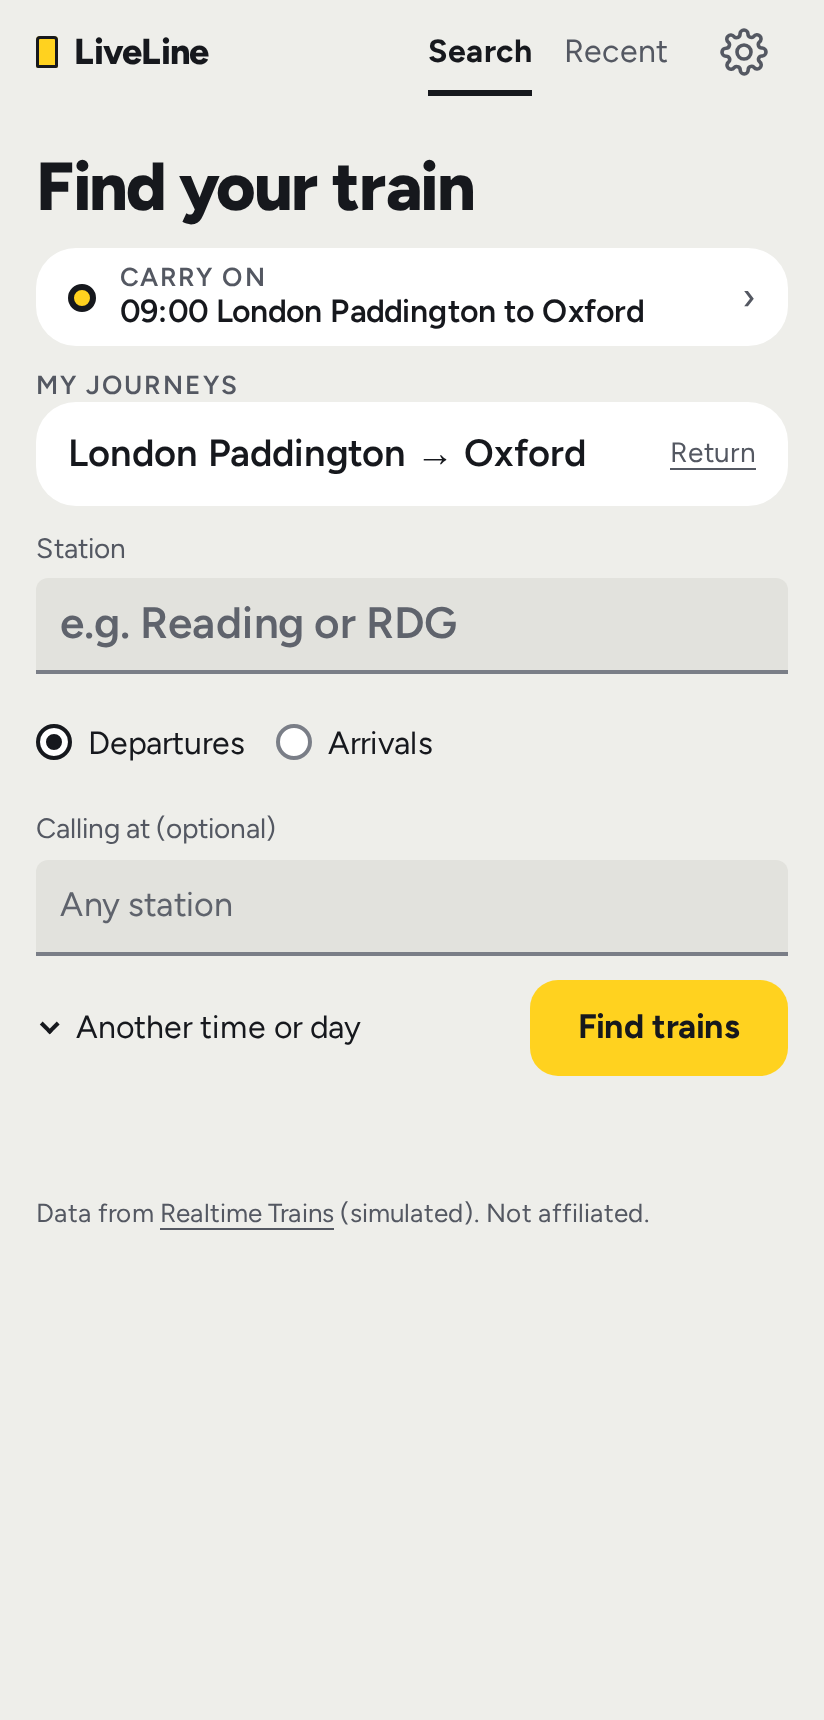
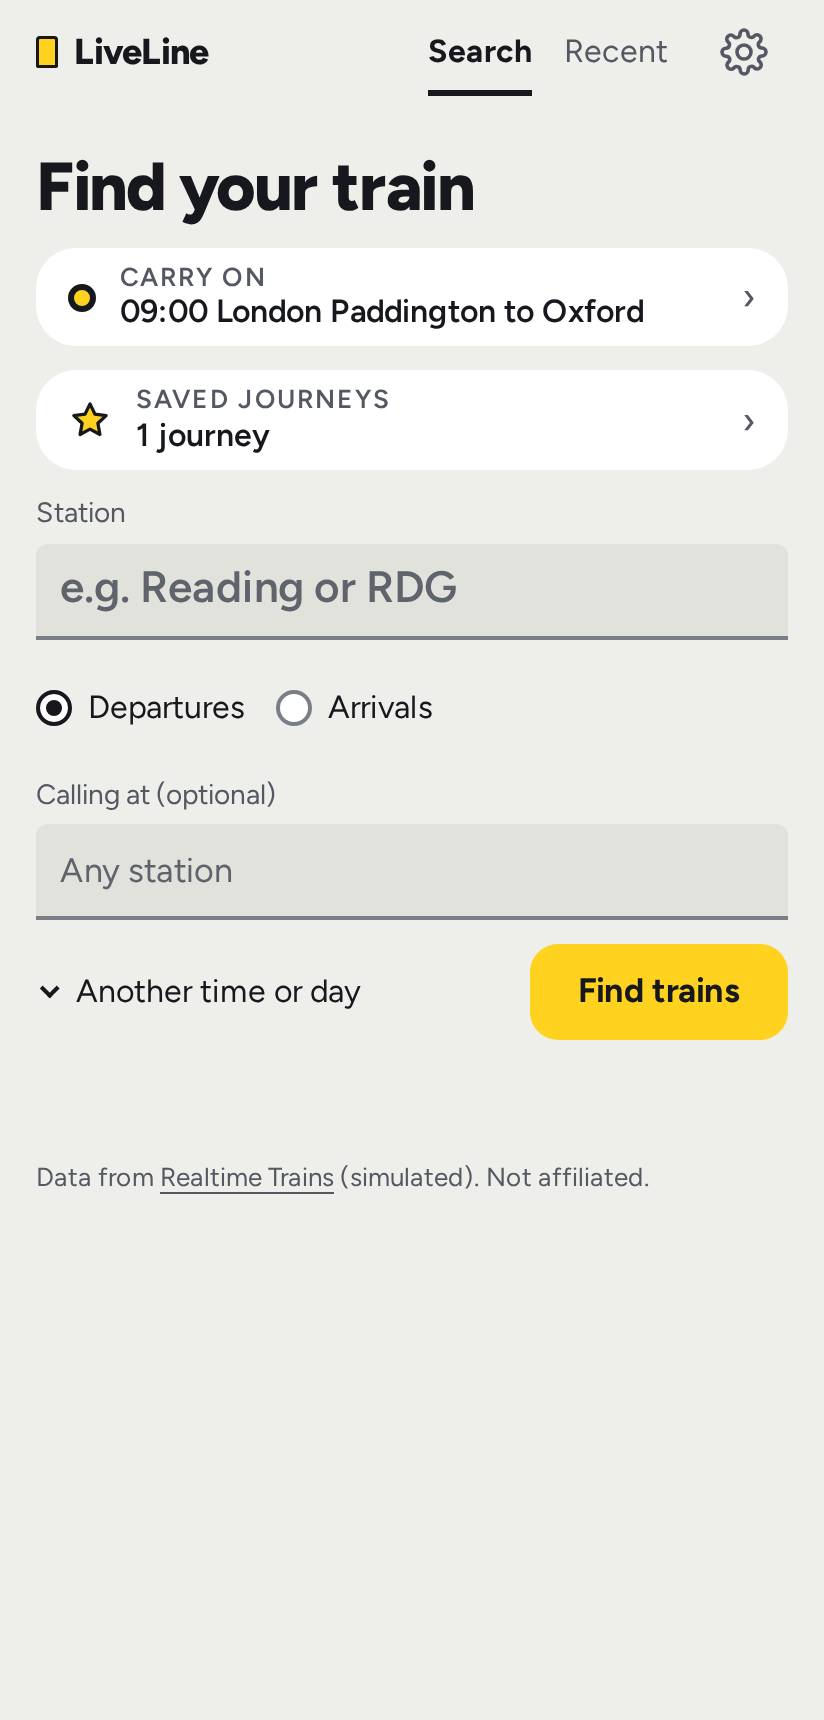
Saved journeys get a page of their own
The search page keeps one line to them, the same height however many are saved. Each journey opens its board; a red bin removes it. Return is gone.

diff --git a/test/ui/states.spec.ts b/test/ui/states.spec.ts
@@ -18,9 +18,31 @@ test("search, returning: a saved journey, a train to carry on with, recent stati
   await page.locator("[data-save-journey]").click();
   await firstTrain(page, "/board?station=PAD&to=OXF&time=09:00");
   await open(page, "/");
-  await expect(page.locator(".carry")).toBeVisible();
-  await expect(page.locator(".journeys__item")).toHaveCount(1);
+  await expect(page.locator(".carry:not(.carry--saved)")).toBeVisible();
+  await expect(page.locator(".carry--saved")).toContainText("1 journey");
   await shot(page, info, "10-search-returning");
+  void errors;
+});
+
+// Saved journeys have a page of their own; the search page keeps one line to it, however many are saved
+test("saved journeys: their own page, reached from the search page's one line, and one removed", async ({ page, errors }, info) => {
+  const saved = [
+    { from: "PAD", fromName: "London Paddington", to: "OXF", toName: "Oxford" },
+    { from: "WAT", fromName: "London Waterloo", to: "WOK", toName: "Woking" },
+    { from: "RDG", fromName: "Reading", to: "DID", toName: "Didcot Parkway" },
+  ];
+  await page.addInitScript(([name, v]) => localStorage.setItem(name, v), [KEYS.journeys, JSON.stringify(saved)] as const);
+  await open(page, "/");
+  await expect(page.locator(".journeys__item")).toHaveCount(0);
+  await page.locator(".carry--saved", { hasText: "3 journeys" }).click();
+  await expect(page.locator("main h1")).toHaveText("Saved journeys");
+  await expect(page.locator(".journeys__item")).toHaveCount(3);
+  await shot(page, info, "14-saved-journeys");
+  await page.getByRole("button", { name: "Remove London Waterloo to Woking" }).click();
+  await expect(page.locator(".journeys__item")).toHaveCount(2);
+  await expect(page.locator(".journeys__go").first()).toHaveText("London Paddington → Oxford");
+  await page.locator(".journeys__go", { hasText: "London Paddington → Oxford" }).click();
+  await expect(page.locator(".board__sub")).toContainText("calling at Oxford");
   void errors;
 });
 
@@ -190,9 +212,9 @@ test("waiting for Realtime Trains: the old page stays, with a thin line along th
 });
 
 test("something nobody planned for: a sentence and Try again, not Loading… for good", async ({ page, errors }, info) => {
-  // A saved-journeys list no version of the app would write: drawing the search page throws, standing for any bug
+  // A saved-journeys list no version of the app would write: drawing their page throws, standing for any bug
   await page.addInitScript((name) => localStorage.setItem(name, "[null]"), KEYS.journeys);
-  await open(page, "/");
+  await open(page, "/journeys");
   await expect(page.locator("main h1")).toHaveText("Something went wrong");
   await expect(page.locator("[data-retry]")).toHaveText("Try again");
   await shot(page, info, "19-something-went-wrong");

diff --git a/src/ui/views/home.ts b/src/ui/views/home.ts
@@ -1,16 +1,18 @@
 // The search page, and the page shown when something can't be shown.
 import { hm, type Ms } from "../../core/time";
+import { STAR_ICON } from "../components/icons";
 import { searchForm } from "../components/search-form";
 import { plural } from "../format";
 import { type Html, html } from "../html";
-import { boardHash, type Query } from "../routes";
+import type { Query } from "../routes";
 import type { Journey } from "../store/lists";
 import type { RecentTrain } from "../store/recent-trains";
 
 export interface HomeData {
   query: Query;
   carry: RecentTrain | null; // the newest train still running: one line, so the form never moves
-  journeys: Journey[]; // (recent stations are offered in the station box itself: StationSuggest)
+  journeys: Journey[]; // one line to their page, the same height however many
+  // (recent stations are offered in the station box itself: StationSuggest)
 }
 
 export function homeView(d: HomeData): Html {
@@ -18,16 +20,9 @@ export function homeView(d: HomeData): Html {
 <div class="stack home">
   <h1>Find your train</h1>
   ${d.carry ? html`<a class="carry" href="${d.carry.href}"><span class="carry__label">Carry on</span><span class="carry__title">${d.carry.title}</span></a>` : ""}
-  ${d.journeys.length ? html`<section class="journeys" aria-labelledby="journeys-h">
-    <h2 id="journeys-h" class="label">My journeys</h2>
-    <ul class="journeys__list">${d.journeys.map((j) => html`
-      <li class="journeys__item">
-        <a class="journeys__go" href="${boardHash({ station: j.from, to: j.to })}">${j.fromName} → ${j.toName}</a>
-        <a class="journeys__back" href="${boardHash({ station: j.to, to: j.from })}" aria-label="Return: ${j.toName} to ${j.fromName}">Return</a>
-      </li>`)}</ul>
-  </section>` : ""}
+  ${d.journeys.length ? html`<a class="carry carry--saved" href="#/journeys">${STAR_ICON}<span class="carry__label">Saved journeys</span><span class="carry__title">${plural(d.journeys.length, "journey")}</span></a>` : ""}
   ${searchForm(d.query)}
-  ${d.journeys.length ? "" : html`<p class="hint">Tip: put a station in “Calling at” and you can save the journey for one-tap use, both ways.</p>`}
+  ${d.journeys.length ? "" : html`<p class="hint">Tip: put a station in “Calling at” and you can save the journey for one-tap use.</p>`}
 </div>`;
 }
 

diff --git a/test/journeys-view.test.ts b/test/journeys-view.test.ts
@@ -1,0 +1,50 @@
+// Saved journeys have a page of their own (owner, 2026-11-08: on the search page they were squished and, with many,
+// took up the screen). The search page keeps one line to them, the same height however many there are.
+import { describe, expect, it } from "vitest";
+import { parseHash } from "../src/ui/routes";
+import type { Journey } from "../src/ui/store/lists";
+import { homeView } from "../src/ui/views/home";
+import { journeysView } from "../src/ui/views/journeys";
+
+const J = (from: string, fromName: string, to: string, toName: string): Journey => ({ from, fromName, to, toName });
+const SAVED = [J("PAD", "London Paddington", "OXF", "Oxford"), J("RDG", "Reading", "PAD", "London Paddington"),
+  J("WAT", "London Waterloo", "WOK", "Woking")];
+const home = (journeys: Journey[]) => String(homeView({ query: {}, carry: null, journeys }));
+
+describe("the search page", () => {
+  it("has one line to the saved journeys, not the list", () => {
+    const v = home(SAVED);
+    expect(v).toContain('href="#/journeys"');
+    expect(v).toContain("Saved journeys");
+    expect(v).toContain("3 journeys");
+    expect(v).not.toContain("Woking"); // the journeys themselves are on their page
+  });
+
+  it("with none saved, no line, and the tip on how to save one", () => {
+    const v = home([]);
+    expect(v).not.toContain("#/journeys");
+    expect(v).toContain("save the journey");
+  });
+});
+
+describe("the saved journeys page", () => {
+  it("is a route of its own", () => {
+    expect(parseHash("#/journeys").name).toBe("journeys");
+  });
+
+  it("lists each journey as one link to its board, with a bin to remove it, and no Return (owner: redundant)", () => {
+    const v = String(journeysView(SAVED));
+    expect(v).toContain('href="#/board?station=WAT&amp;to=WOK"');
+    expect(v).not.toContain('href="#/board?station=WOK&amp;to=WAT"');
+    expect(v).not.toContain("Return");
+    expect(v).toContain('data-remove-journey="WAT WOK"');
+    expect(v).toContain('aria-label="Remove London Waterloo to Woking"');
+    expect(v).toContain("icon--bin");
+  });
+
+  it("with none saved, says how to save one", () => {
+    const v = String(journeysView([]));
+    expect(v).toContain("Calling at");
+    expect(v).toContain('href="#/"');
+  });
+});

diff --git a/public/css/block/forms.css b/public/css/block/forms.css
@@ -72,7 +72,17 @@
   border-radius: 50%; background: var(--train); border: 2px solid var(--train-edge); box-sizing: border-box;
 }
 
-.journeys__list { display: grid; border-top: 1px solid var(--line); }
+/* The search page's line to Saved journeys: Carry on's shape, with a saved star (as a starred board's) for its dot */
+.carry--saved::before { content: none; }
+.carry--saved > .icon--star { grid-row: span 2; width: 22px; height: 22px; fill: var(--train); stroke: var(--train-edge); }
+
+/* Saved journeys: the journey opens its board; a red bin on the right removes it */
+.journeys__list { list-style: none; margin: 0; padding: 0; display: grid; border-top: 1px solid var(--line); }
 .journeys__item { display: flex; align-items: center; gap: var(--s-3); border-bottom: 1px solid var(--line); }
-.journeys__go { flex: 1; display: flex; align-items: center; min-height: 3.25rem; text-decoration: none; font: 600 var(--t-md)/1.2 var(--sign-font); }
-.journeys__back { display: inline-flex; align-items: center; min-height: var(--tap); padding-left: var(--s-3); color: var(--muted); font-size: var(--t-sm); }
+.journeys__go { flex: 1; min-width: 0; display: flex; align-items: center; min-height: 3.25rem; padding-block: var(--s-2); text-decoration: none; font: 600 var(--t-md)/1.2 var(--sign-font); }
+.journeys__remove {
+  flex: none; display: inline-grid; place-items: center; min-width: var(--tap); min-height: var(--tap); margin-right: calc(-1 * var(--s-2));
+  background: none; border: 0; padding: 0; color: var(--problem); cursor: pointer;
+}
+.journeys__remove:focus-visible { outline: 3px solid var(--train); outline-offset: -3px; }
+.journeys__search { display: inline-flex; align-items: center; min-height: var(--tap); } /* a line of its own: a control */

diff --git a/test/ui/focus.spec.ts b/test/ui/focus.spec.ts
@@ -12,7 +12,7 @@ test("the skip link moves focus to the page, without changing the route", async 
   void errors;
 });
 
-test("going to Search focuses its heading, which a screen reader meets before the saved journeys", async ({ page, errors }) => {
+test("going to Search focuses its heading, which a screen reader meets before the line to saved journeys", async ({ page, errors }) => {
   await open(page, "/board?station=PAD&to=OXF&time=09:00");
   await page.locator("[data-save-journey]").click();
   await open(page, "/recent");
@@ -20,9 +20,9 @@ test("going to Search focuses its heading, which a screen reader meets before th
   const h1 = page.locator("main h1");
   await expect(h1).toBeFocused();
   await expect(h1).toHaveText("Find your train");
-  await expect(page.locator(".journeys__go")).toHaveCount(1);
-  // DOCUMENT_POSITION_FOLLOWING: the journey comes after the heading in reading order
-  expect(await h1.evaluate((el) => !!(el.compareDocumentPosition(document.querySelector(".journeys__go")!) & 4))).toBe(true);
+  await expect(page.locator(".carry--saved")).toHaveCount(1);
+  // DOCUMENT_POSITION_FOLLOWING: the line comes after the heading in reading order
+  expect(await h1.evaluate((el) => !!(el.compareDocumentPosition(document.querySelector(".carry--saved")!) & 4))).toBe(true);
   void errors;
 });
 

diff --git a/src/ui/pages/simple.ts b/src/ui/pages/simple.ts
@@ -1,9 +1,10 @@
-// The pages with little behaviour: search, Recent, About, and a page that isn't there.
+// The pages with little behaviour: search, Recent, Saved journeys, About, and a page that isn't there.
 import { APP_VERSION } from "../../platform";
 import type { Html } from "../html";
 import { queryOf, type RouteName } from "../routes";
 import { aboutView } from "../views/about";
 import { homeView, problemView, type Retry } from "../views/home";
+import { journeysView } from "../views/journeys";
 import { recentView } from "../views/recent";
 import { Page } from "./page";
 
@@ -29,6 +30,25 @@ export class RecentPage extends Page {
       this.ctx.trains.clear();
       this.ctx.rerender();
     });
+  }
+}
+
+export class JourneysPage extends Page {
+  readonly tab: RouteName = "journeys";
+  title = "Saved journeys";
+
+  async load(): Promise<Html> {
+    return journeysView(this.ctx.journeys.all());
+  }
+
+  mount(root: HTMLElement): void {
+    for (const b of root.querySelectorAll<HTMLElement>("[data-remove-journey]")) {
+      b.addEventListener("click", () => {
+        const [from, to] = (b.dataset.removeJourney ?? "").split(" ");
+        this.ctx.journeys.remove(from, to);
+        this.ctx.rerender();
+      });
+    }
   }
 }
 

diff --git a/src/ui/views/journeys.ts b/src/ui/views/journeys.ts
@@ -1,0 +1,23 @@
+// The Saved journeys page: each journey you starred on a board, opening that board, with a bin to remove it.
+import { BIN_ICON } from "../components/icons";
+import { type Html, html } from "../html";
+import { boardHash } from "../routes";
+import type { Journey } from "../store/lists";
+
+export function journeysView(list: Journey[]): Html {
+  const items = list.map((j) => html`
+    <li class="journeys__item">
+      <a class="journeys__go" href="${boardHash({ station: j.from, to: j.to })}">${j.fromName} → ${j.toName}</a>
+      <button type="button" class="journeys__remove" data-remove-journey="${j.from} ${j.to}"
+        aria-label="Remove ${j.fromName} to ${j.toName}" title="Remove">${BIN_ICON}</button>
+    </li>`);
+  return html`
+<div class="stack journeys">
+  <h1>Saved journeys</h1>
+  ${list.length
+    ? html`<ul class="journeys__list">${items}</ul>
+      <p class="hint">Kept on this device only. Star a board with a “Calling at” station to add one.</p>`
+    : html`<p class="empty">Put a station in “Calling at”, then star the board: the journey is kept here.</p>
+      <p><a class="journeys__search" href="#/">Search for a train</a></p>`}
+</div>`;
+}

diff --git a/src/ui/routes.ts b/src/ui/routes.ts
@@ -2,7 +2,7 @@
 import type { BoardResult } from "../core/rail";
 import { fromLondon, isoDate, londonParts, type Ms } from "../core/time";
 
-export type RouteName = "home" | "board" | "train" | "recent" | "settings" | "about" | "unknown";
+export type RouteName = "home" | "board" | "train" | "recent" | "journeys" | "settings" | "about" | "unknown";
 
 export interface Route {
   name: RouteName;
@@ -10,7 +10,7 @@ export interface Route {
   params: URLSearchParams;
 }
 
-const NAMED: Record<string, RouteName> = { "/": "home", "/board": "board", "/recent": "recent", "/settings": "settings", "/about": "about" };
+const NAMED: Record<string, RouteName> = { "/": "home", "/board": "board", "/recent": "recent", "/journeys": "journeys", "/settings": "settings", "/about": "about" };
 
 export function parseHash(hash: string): Route {
   const h = hash.replace(/^#/, "") || "/";

diff --git a/src/ui/components/icons.ts b/src/ui/components/icons.ts
@@ -5,3 +5,6 @@ export const REFRESH_ICON = raw('<svg class="icon" viewBox="0 0 24 24" width="22
 
 /** A star: outlined, or filled once saved (CSS fills it on [aria-pressed="true"]). */
 export const STAR_ICON = raw('<svg class="icon icon--star" viewBox="0 0 24 24" width="26" height="26" aria-hidden="true" focusable="false"><path d="M12 3.2l2.7 5.6 6.1.8-4.5 4.2 1.1 6.1L12 17l-5.4 2.9 1.1-6.1-4.5-4.2 6.1-.8z" stroke="currentColor" stroke-width="1.8" stroke-linejoin="round"/></svg>');
+
+/** A bin: removes something from a list (a saved journey). */
+export const BIN_ICON = raw('<svg class="icon icon--bin" viewBox="0 0 24 24" width="22" height="22" aria-hidden="true" focusable="false"><path d="M4 7h16M9.5 7V4.5h5V7M6.5 7l1 13h9l1-13M10 11v6M14 11v6" fill="none" stroke="currentColor" stroke-width="1.8" stroke-linecap="round" stroke-linejoin="round"/></svg>');

diff --git a/src/ui/app.ts b/src/ui/app.ts
@@ -8,7 +8,7 @@ import { type Html, html, render } from "./html";
 import { BoardPage } from "./pages/board";
 import type { AppContext, Page } from "./pages/page";
 import { SettingsPage } from "./pages/settings";
-import { AboutPage, HomePage, NotFoundPage, ProblemPage, RecentPage, retryDelay } from "./pages/simple";
+import { AboutPage, HomePage, JourneysPage, NotFoundPage, ProblemPage, RecentPage, retryDelay } from "./pages/simple";
 import { TrainPage } from "./pages/train";
 import { parseHash, queryOf, type Route, type RouteName } from "./routes";
 import { Appearance } from "./store/appearance";
@@ -29,6 +29,7 @@ const PAGES: Record<RouteName, PageClass> = {
   board: BoardPage,
   train: TrainPage,
   recent: RecentPage,
+  journeys: JourneysPage,
   settings: SettingsPage,
   about: AboutPage,
   unknown: NotFoundPage,

diff --git a/test/ui/fit.spec.ts b/test/ui/fit.spec.ts
@@ -19,8 +19,8 @@ test.describe("on a small phone's app screen", () => {
     await page.locator("[data-save-journey]").click();
     await openTrain(page);
     await open(page, "/");
-    await expect(page.locator(".carry")).toBeVisible();
-    await expect(page.locator(".journeys__item")).toHaveCount(1);
+    await expect(page.locator(".carry:not(.carry--saved)")).toBeVisible();
+    await expect(page.locator(".carry--saved")).toBeVisible();
     expect(await fits(page)).toBeLessThanOrEqual(0);
     void errors;
   });

diff --git a/test/ui/calm.spec.ts b/test/ui/calm.spec.ts
@@ -35,7 +35,7 @@ test("saving a journey from the star still works, and says so", async ({ page, e
   await open(page, "/board?station=PAD&to=OXF&time=09:00");
   await page.getByRole("button", { name: "Save this journey" }).click();
   await expect(page.locator("[data-save-note]")).toContainText(/Saved/i);
-  await open(page, "/");
+  await open(page, "/journeys");
   await expect(page.locator(".journeys__item")).toHaveCount(1);
   void errors;
 });
